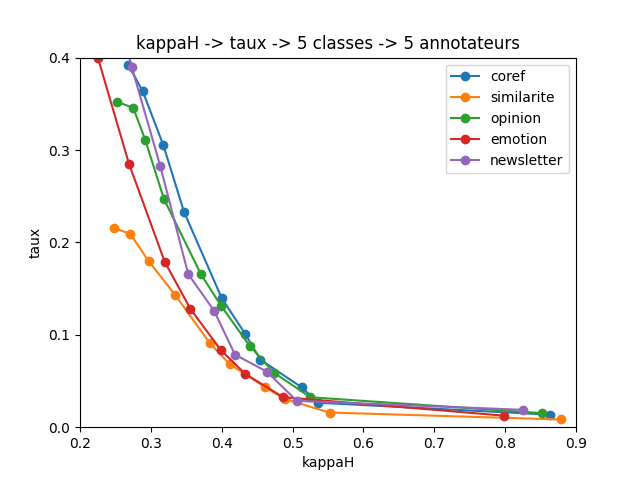
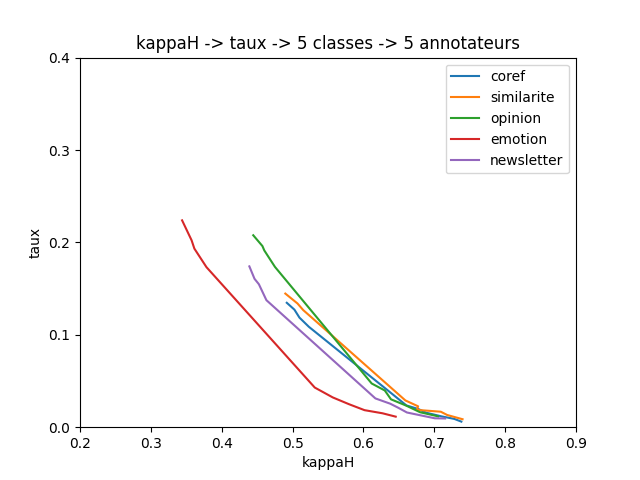
correction du kappaH

diff --git a/simulation_sur_distri_reelles_2021_05.cpp b/simulation_sur_distri_reelles_2021_05.cpp
@@ -505,8 +505,8 @@ void write_res_series(string corpus, int nbval, float moykappa[], float moyalpha
     for (int nb = 0; nb < nbval; nb++) {
       file1 << moykappa[nb] << "," << moymtauxErRef[nb]  << endl;
       file2 << moyalpha[nb] << "," << moymtauxErRef[nb] << endl;
-      file3 << (moyalpha[nb] * (1 - (distancemoytaux_distri_hasard[nb] / 2))) << "," << ((moymtauxErRef[nb])) << endl;
-      file4 << (moykappa[nb] * (1 - (distancemoytaux_distri_hasard[nb] / 2))) << "," << ((moymtauxErRef[nb])) << endl;
+      file3 << (moyalpha[nb] * (1 - (distancemoytaux_distri_hasard[nb]))) << "," << ((moymtauxErRef[nb])) << endl;
+      file4 << (moykappa[nb] * (1 - (distancemoytaux_distri_hasard[nb]))) << "," << ((moymtauxErRef[nb])) << endl;
     }
   }
   else
@@ -519,7 +519,7 @@ void serie_expes(string corpus, int nbval, int nb, int nbG, int RefIni[], int nb
     cout << "test = " << i << endl;
     nbfois_unplusnbGgroupe(nb, nbG, RefIni, nbIt, nbC, TE, TEIt, nbA, tauxErparAnnot[i], sigmatauxEr, choix1, choix2, moymtauxErRef[i], moysigmatauxErRef[i], moymtauxconf[i], moyalpha[i], moyalphaconf[i], moykappa[i], moycos_uniforme[i], moydistri_hasard[i], moydistance_distri_hasard[i], distancemoytaux_distri_hasard[i]);
   }
-  normalise(distancemoytaux_distri_hasard, nbval);
+  //normalise(distancemoytaux_distri_hasard, nbval);
   affiche_res_series(nbval, tauxErparAnnot, moymtauxErRef, moysigmatauxErRef, moymtauxconf, moyalpha, moyalphaconf, moykappa, moycos_uniforme, moydistri_hasard, moydistance_distri_hasard, distancemoytaux_distri_hasard);
   write_res_series(corpus, nbval, moykappa, moyalpha, moymtauxErRef, distancemoytaux_distri_hasard);
 }
@@ -601,7 +601,7 @@ int main(int n, char * param[]) {
     nbErparA.resize(nbA);
     int Tabannot[nbA][MAXIT];
     int nbG = 100; //nb de groupes auquel on compare un groupe, 100 par défaut
-    int nb = 50; //à revoir
+    int nb = 100; //à revoir
     // SERIES d'expé
     int choix1 = 1, choix2 = 1;
     //I - Variations mesure d'accords/taux d'écart entre Rf

diff --git a/outils_distances.cpp b/outils_distances.cpp
@@ -511,7 +511,7 @@ float Jdiv_vect_entier(int v1[],int v2[],int nbIt) {
 }
 
 // Hellinger cofficient
-float H_vect_entier(int v1[],int v2[],int nbIt) {
+float H_vect_reel(float v1[], float v2[], int nbIt) {
   float sum;
   for (int it = 0; it < nbIt; it ++) {
     sum += sqrt(v1[it] * v2[it]);
@@ -629,8 +629,8 @@ void KL_distri_item(int TA[MAXIT][MAXA], int nbA, int nbIt, int nbC, float & dis
 //     2 - vecteur observé dans l'annotation réelle
 float distance_taux_distri_hasard(int T[MAXIT][MAXA], int nbA, int nbIt, int nbC) {
   if ((nbC == 5) && (nbA == 5)) {
-    int Tcomb[7] = {1, 20, 40, 120, 180, 240, 24};
-    int Treel[7] = {0, 0, 0, 0, 0, 0, 0};
+    float Tcomb[7] = {1.0, 20.0, 40.0, 120.0, 180.0, 240.0, 24.0};
+    float Treel[7] = {0.0, 0.0, 0.0, 0.0, 0.0, 0.0, 0.0};
     int Tval[7] = {0, 4, 6, 7, 8, 9, 10};
     for (int it = 0; it < nbIt; it++) {
       int nbdes = 0;
@@ -645,7 +645,18 @@ float distance_taux_distri_hasard(int T[MAXIT][MAXA], int nbA, int nbIt, int nbC
         else
           (Treel[ind])++;
     }
-    return H_vect_entier(Tcomb, Treel, 7);
+    float sumComb = 0.0, sumReel = 0.0;
+    for (int it = 0; it < 7; it++) {
+      sumComb += Tcomb[it];
+      sumReel += Treel[it];
+    }
+    for (int it = 0; it < 7; it++) {
+      Tcomb[it] = Tcomb[it] / sumComb;
+      cout << " | " << Tcomb[it] << " | ";
+      Treel[it] = Treel[it] / sumReel;
+    }
+    cout << endl;
+    return H_vect_reel(Tcomb, Treel, 7);
   }
   else {
     cout << "pas de calcul prévu pour distance_taux_distri_hasard\n ";

diff --git a/outils_distances.hpp b/outils_distances.hpp
@@ -41,7 +41,7 @@ float KL_vect_entier(int v1[], int v2[], int nbIt);
 float Jeffrey_vect_entier(int v1[], int v2[], int nbIt);
 float sym_vect_entier(int v1[],int v2[],int nbIt);
 float Jdiv_vect_entier(int v1[],int v2[],int nbIt);
-float H_vect_entier(int v1[],int v2[],int nbIt);
+float H_vect_reel(float v1[],float v2[],int nbIt);
 float B_vect_entier(int v1[],int v2[],int nbIt);
 float euc_vect_entier(int v1[], int v2[], int nbIt);
 float man_vect_entier(int v1[], int v2[], int nbIt);
